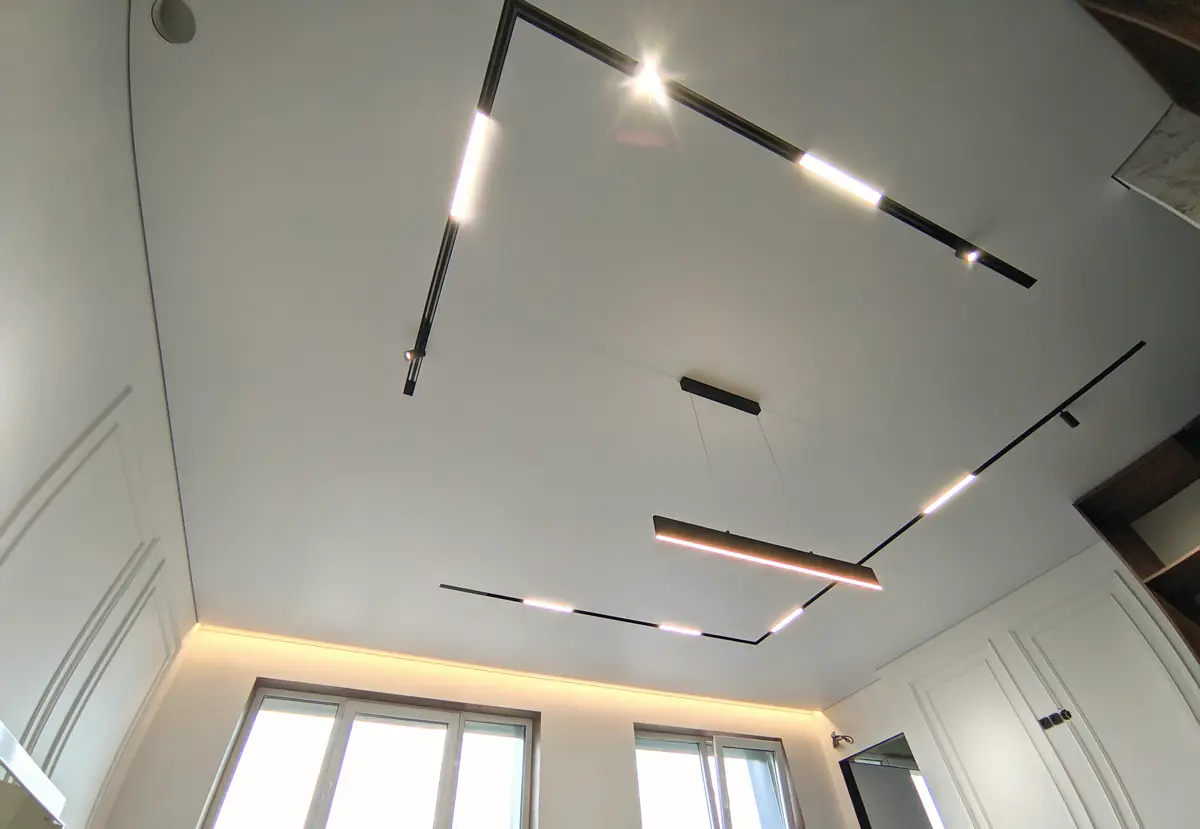
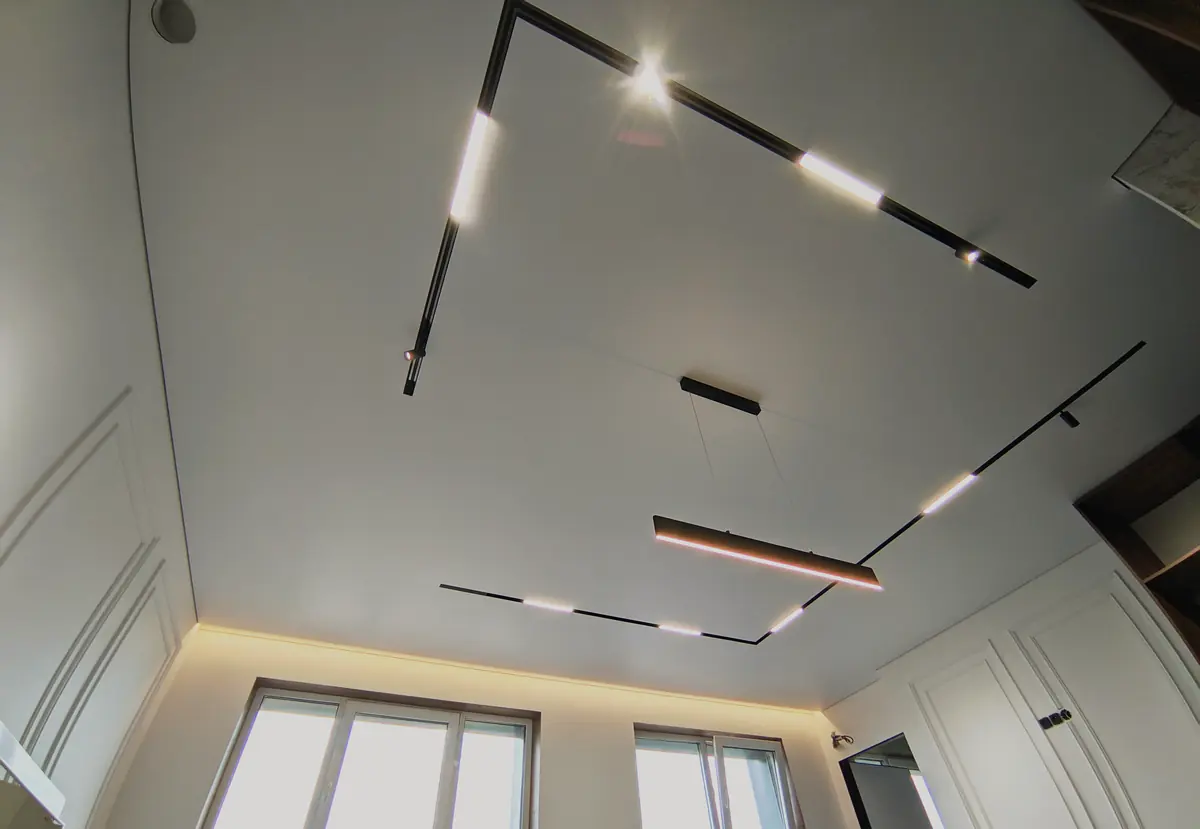
Фото первого экрана темнее: приглушены окна и блики

diff --git a/index.html b/index.html
@@ -50,7 +50,7 @@
   ]
 }
   </script>
-  <link rel="preload" as="image" imagesrcset="img/hero/tracks-sm.webp 1200w, img/hero/tracks.webp 2400w" imagesizes="(max-width: 960px) 100vw, 50vw" fetchpriority="high">
+  <link rel="preload" as="image" imagesrcset="img/hero/tracks-sm.webp?v=2 1200w, img/hero/tracks.webp?v=2 2400w" imagesizes="(max-width: 960px) 100vw, 50vw" fetchpriority="high">
   <link rel="preload" href="fonts/manrope-cyrillic.woff2" as="font" type="font/woff2" crossorigin>
   <link rel="preload" href="fonts/manrope-latin.woff2" as="font" type="font/woff2" crossorigin>
   <link rel="preload" href="fonts/cormorant-garamond-cyrillic.woff2" as="font" type="font/woff2" crossorigin>
@@ -149,7 +149,7 @@
           <span><b>−10% при договоре в день замера</b> и дизайн-проект в подарок</span>
         </a>
         <div class="hero__media hero__fade">
-          <img src="img/hero/tracks-sm.webp" srcset="img/hero/tracks-sm.webp 1200w, img/hero/tracks.webp 2400w" sizes="(max-width: 960px) 100vw, 50vw" alt="Белый натяжной потолок с магнитными треками и подсветкой по контуру" width="2400" height="1659" fetchpriority="high">
+          <img src="img/hero/tracks-sm.webp?v=2" srcset="img/hero/tracks-sm.webp?v=2 1200w, img/hero/tracks.webp?v=2 2400w" sizes="(max-width: 960px) 100vw, 50vw" alt="Белый натяжной потолок с магнитными треками и подсветкой по контуру" width="2400" height="1659" fetchpriority="high">
         </div>
         <ul class="hero__perks hero__fade">
           <li><b>Замер бесплатно</b><span>приедем с образцами полотен</span></li>
